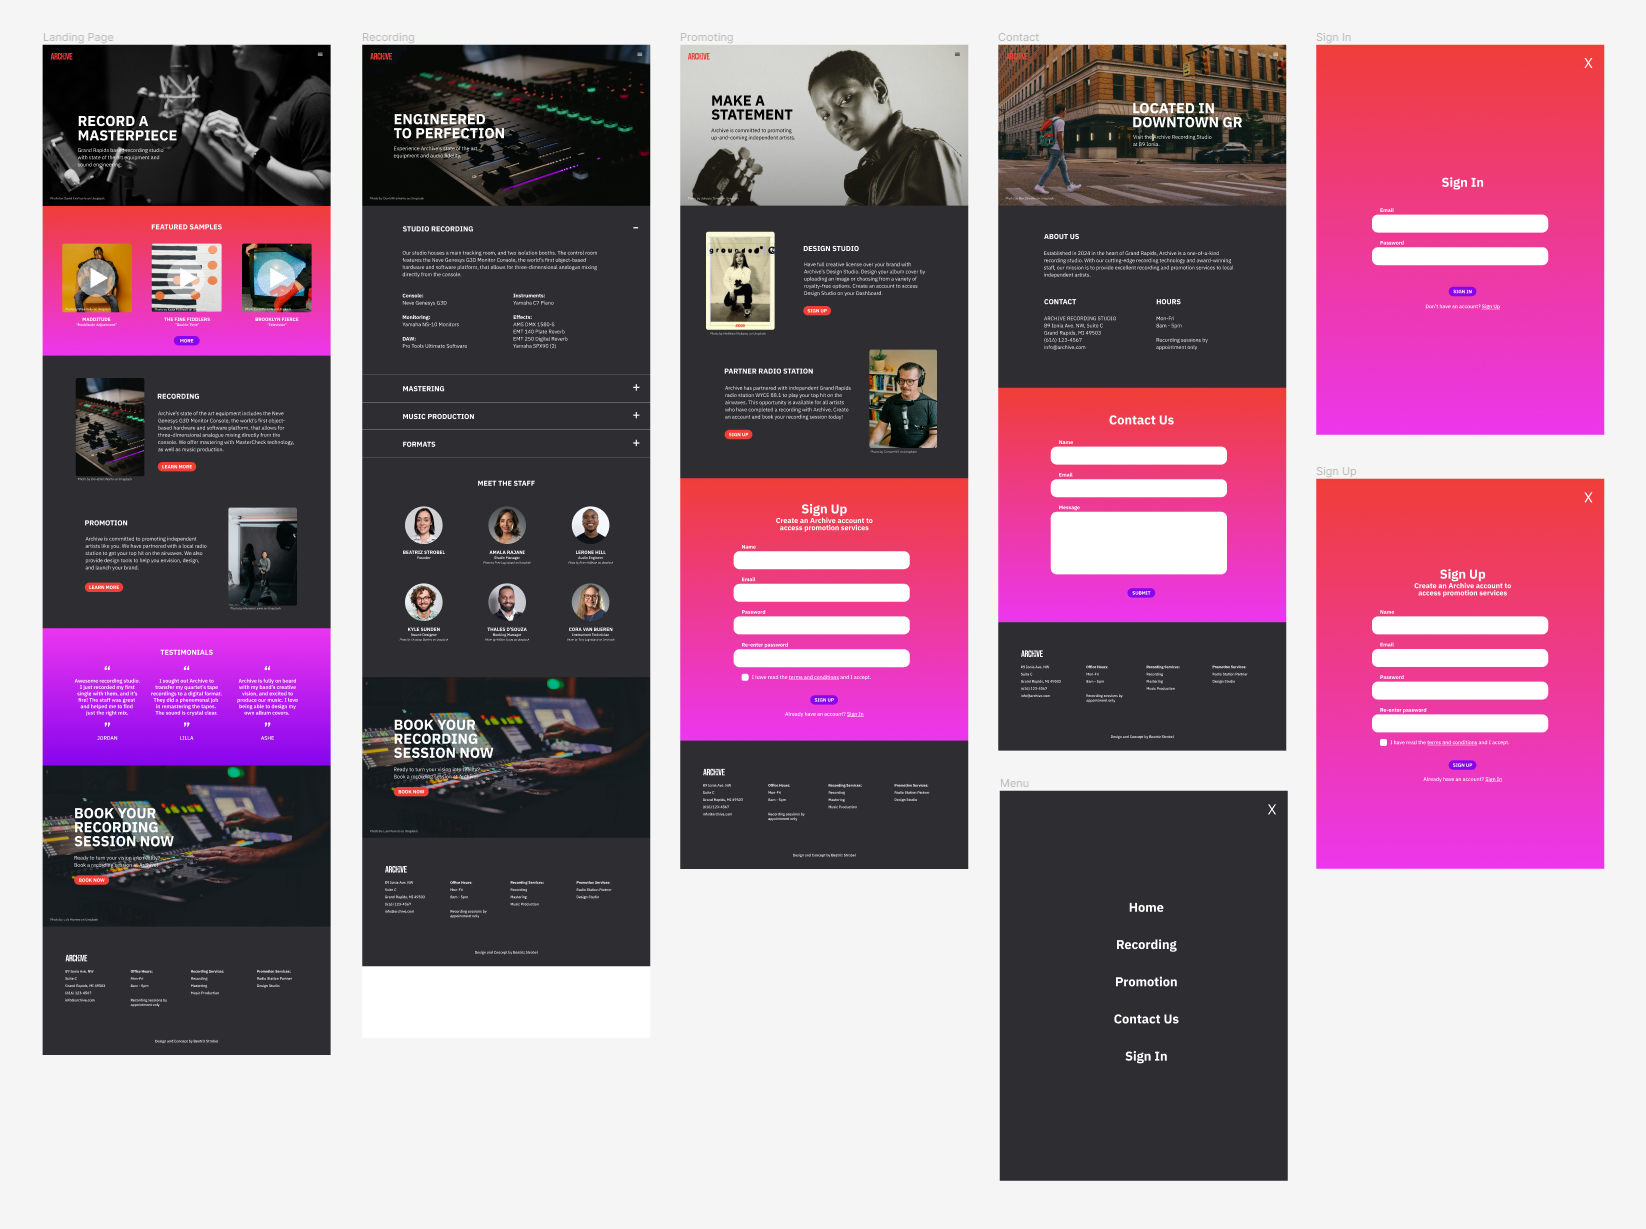
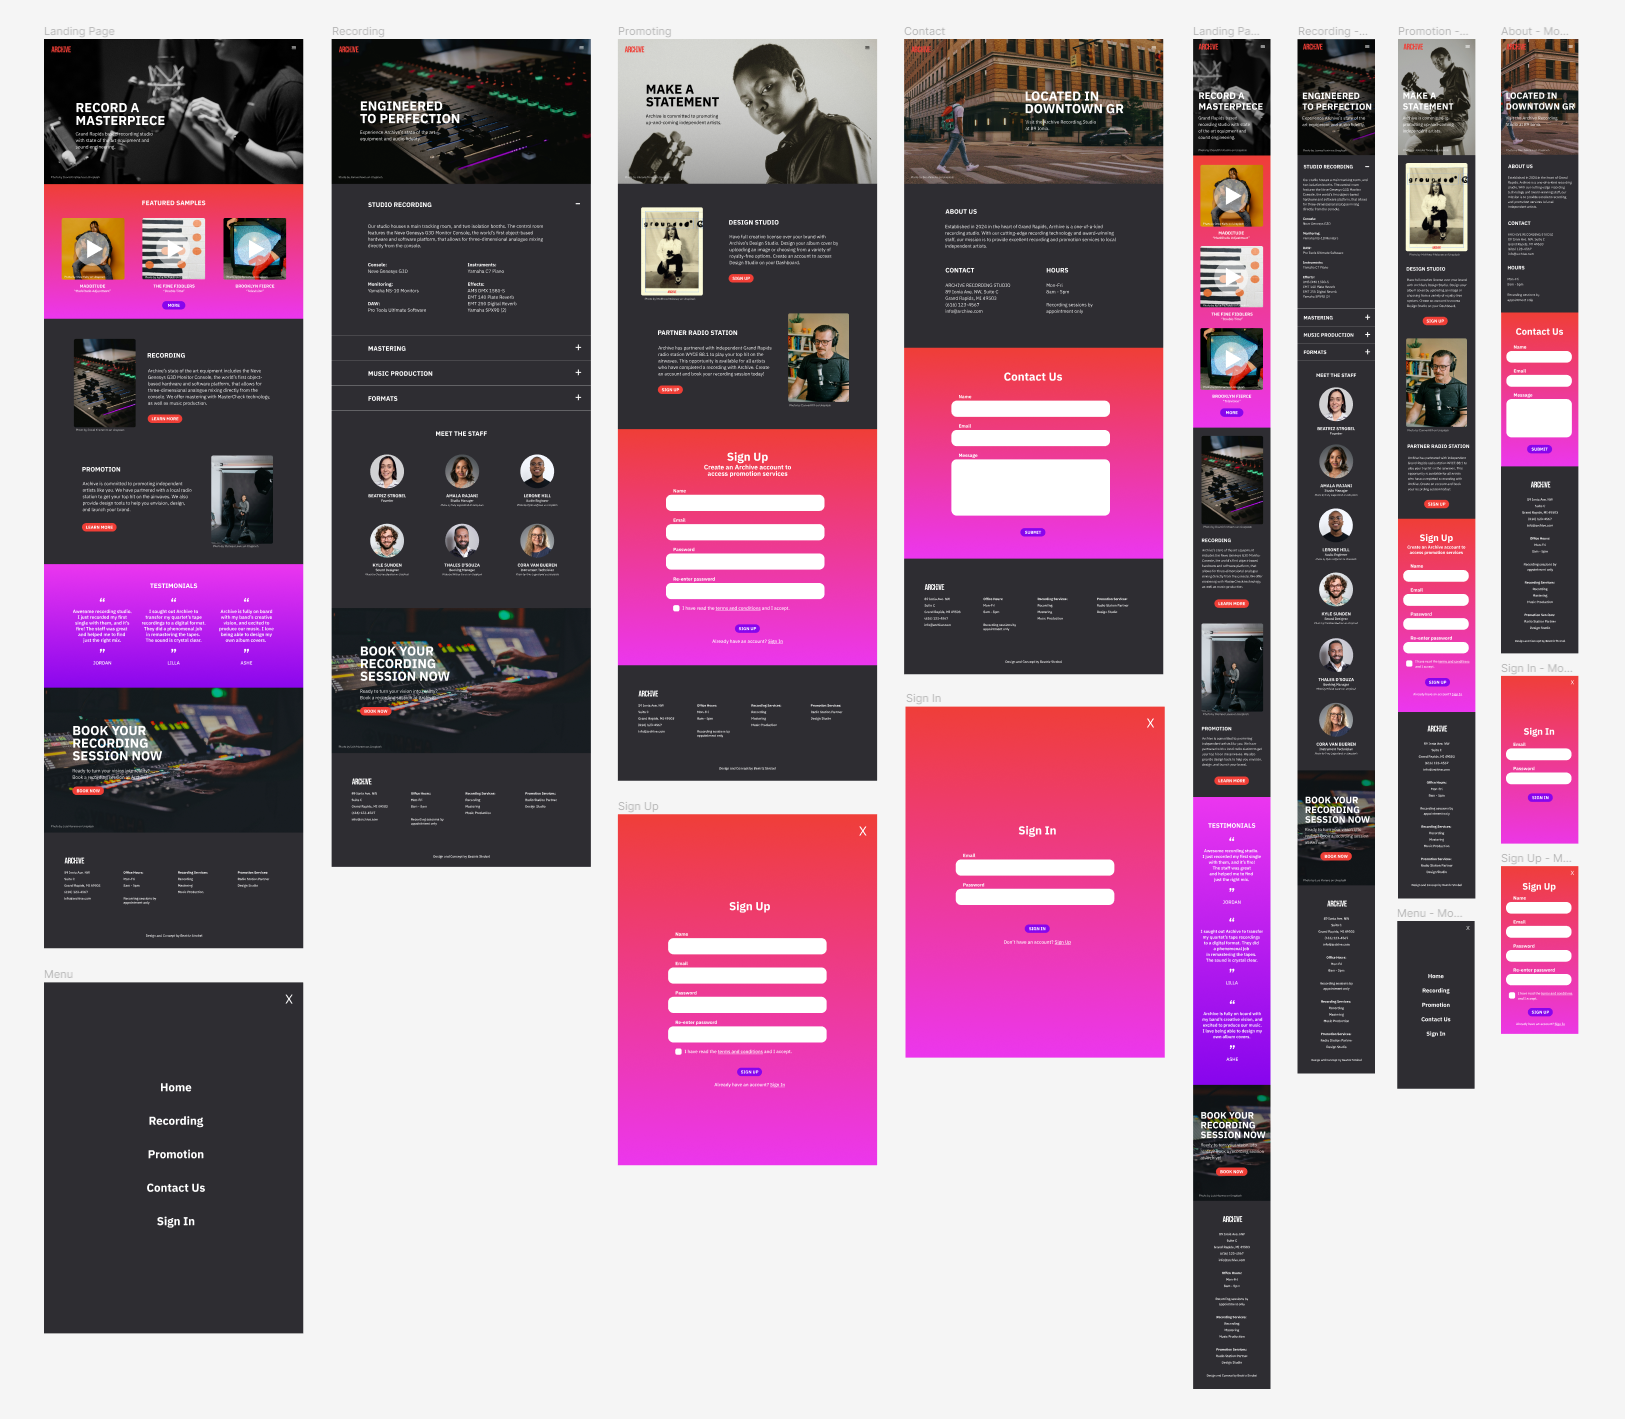
Added mobile wireframes

diff --git a/src/pages/Archive.jsx b/src/pages/Archive.jsx
@@ -11,12 +11,12 @@ function Archive() {
     return(
         <Container maxWidth="4xl" my="50px">
             <Heading as="h3" fontSize="36px">Archive</Heading>
-            <Text>This UX case study was created by me to showcase my process. </Text>
-            <Image src="/ArchiveThumbnail.png" alt="Archive UX" borderRadius="10px"/><br/>
-            <Center>
-            <a href="https://www.figma.com/proto/KN8s0LgWoXfkCI7pB1QHXI/Untitled?type=design&node-id=27-602&t=qc1U7b5z0FJn2BlQ-1&scaling=contain&page-id=1%3A2&mode=design" target="blank"> 
-            <Button colorScheme="purple">View Figma Prototype</Button></a>   
-            </Center>
+                <Text>This UX case study was created by me to showcase my process. </Text>
+                <Image src="/ArchiveThumbnail.png" alt="Archive UX" borderRadius="10px"/><br/>
+                <Center>
+                    <a href="https://www.figma.com/proto/KN8s0LgWoXfkCI7pB1QHXI/Untitled?type=design&node-id=27-602&t=qc1U7b5z0FJn2BlQ-1&scaling=contain&page-id=1%3A2&mode=design" target="blank"> 
+                    <Button colorScheme="purple">View Figma Prototype</Button></a>   
+                </Center>
             <Heading as="h5" fontSize="24px" mt="50px">Client: Archive Recording Studio</Heading>
             <Heading as="h5" fontSize="24px" mt="30px">Project Brief</Heading>
                 <Text as="p">
@@ -53,25 +53,22 @@ function Archive() {
                         <ListItem ml="10px">Want to release a limited edition in vinyl.</ListItem>
                         <ListItem ml="10px">Want to design their own artwork.</ListItem>
                         </UnorderedList>
-                        <Heading as="h5" fontSize="24px" mt="30px">Information Architecture</Heading>
-            <Image src="/InformationArchitecture.png" alt="Information Architecture" />
+            <Heading as="h5" fontSize="24px" mt="30px">Information Architecture</Heading>
+                <Image src="/InformationArchitecture.png" alt="Information Architecture" />
             <Heading as="h5" fontSize="24px" mt="30px">Sketches</Heading>
-            <Image src="/Sketch.jpg" alt="Wireframe Sketches" />
-
+                <Image src="/Sketch.jpg" alt="Wireframe Sketches" />
             <Heading as="h5" fontSize="24px" mt="30px">Wireframes</Heading>
-            <Image src="/LoFi.png" alt="Lo-Fi Wireframes"/>
-            <Image src="/HiFi.png" alt="Hi-Fi Wireframes"/>
-            <Center>
-            <a href="https://www.figma.com/proto/KN8s0LgWoXfkCI7pB1QHXI/Untitled?type=design&node-id=27-602&t=qc1U7b5z0FJn2BlQ-1&scaling=contain&page-id=1%3A2&mode=design" target="blank"> 
-            <Button colorScheme="purple">View Figma Prototype</Button></a>   
-            </Center>
-            
+                <Image src="/LoFi.png" alt="Lo-Fi Wireframes"/><br/>
+                <Image src="/HiFi.png" alt="Hi-Fi Wireframes"/>
+                <Center>
+                    <a href="https://www.figma.com/proto/KN8s0LgWoXfkCI7pB1QHXI/Untitled?type=design&node-id=27-602&t=qc1U7b5z0FJn2BlQ-1&scaling=contain&page-id=1%3A2&mode=design" target="blank"> <br/>
+                    <Button colorScheme="purple">View Figma Prototype</Button></a>   
+                </Center>
             <Heading as="h5" fontSize="24px" mt="30px">Takeaways</Heading>
-            <Text>This UX case study became a passion project for me, as I spent countless hours learning about the inner-workings of a recording studio. It showcases my
-                storytelling ability as a UX Designer. I conceptualized a unique brand with user experience in mind. I incorporated my three personas throughout the design, and thought carefully 
-                about how each of them would interact with the website. For future development, I plan to design hi-fi wireframes for the dashboard as well.
-
-            </Text>
+                <Text>This UX case study became a passion project for me, as I spent countless hours learning about the inner-workings of a recording studio. It showcases my
+                    storytelling ability as a UX Designer. I conceptualized a unique brand with user experience in mind. I incorporated my three personas throughout the design, and thought carefully 
+                    about how each of them would interact with the website. For future development, I plan to design hi-fi wireframes for the dashboard as well.
+                </Text>
         </Container>
     );
 }
